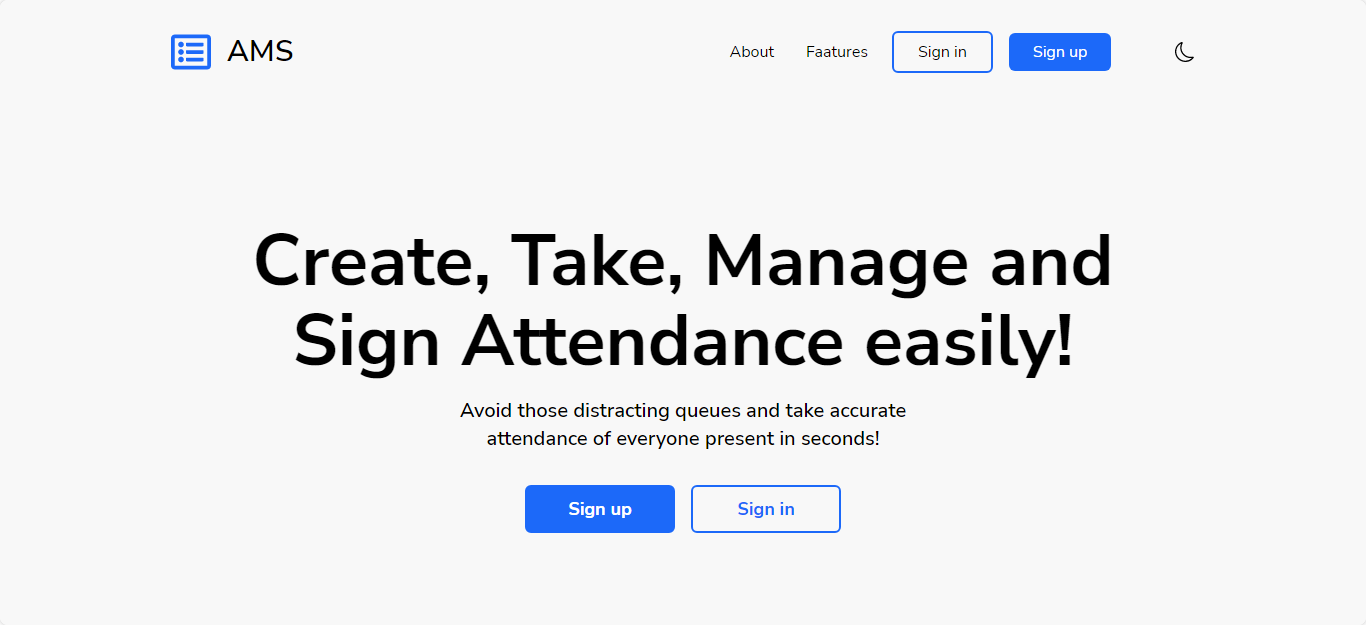
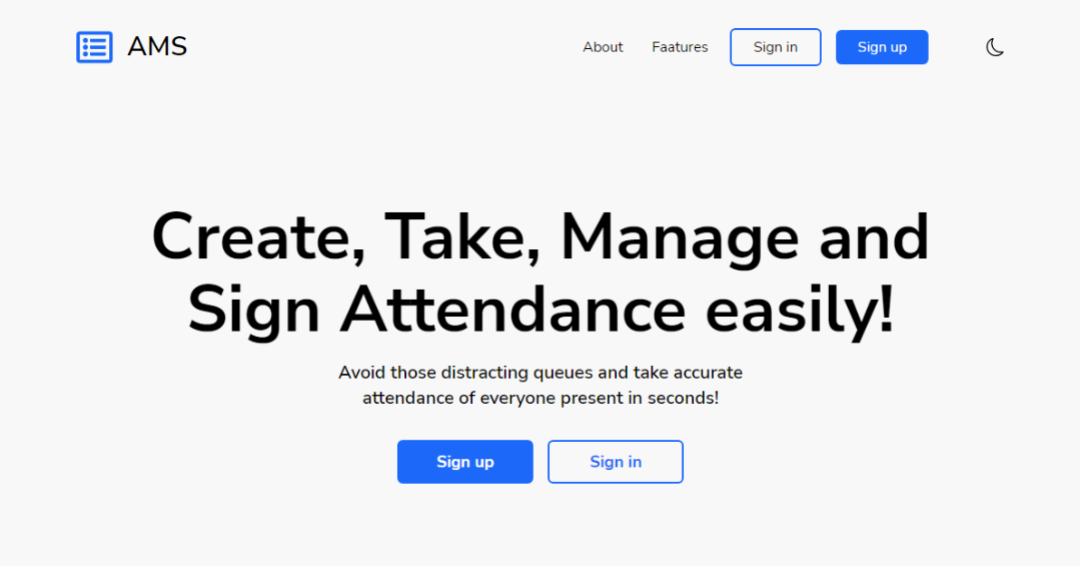
changed og image size

diff --git a/components/Seo.tsx b/components/Seo.tsx
@@ -35,7 +35,7 @@ const Seo = ({
               ? `https://easy-ams.vercel.app/${ogImage}`
               : "https://easy-ams.vercel.app/easy-ams-og.png",
             width: 1280,
-            height: 720,
+            height: 566,
             alt: "Og Image Alt",
           },
         ],
